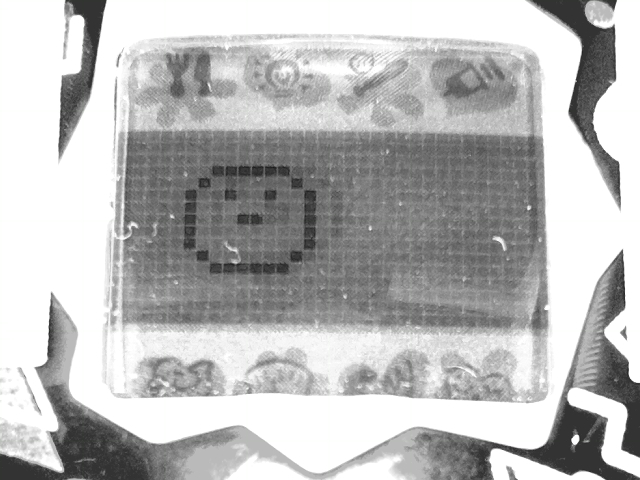
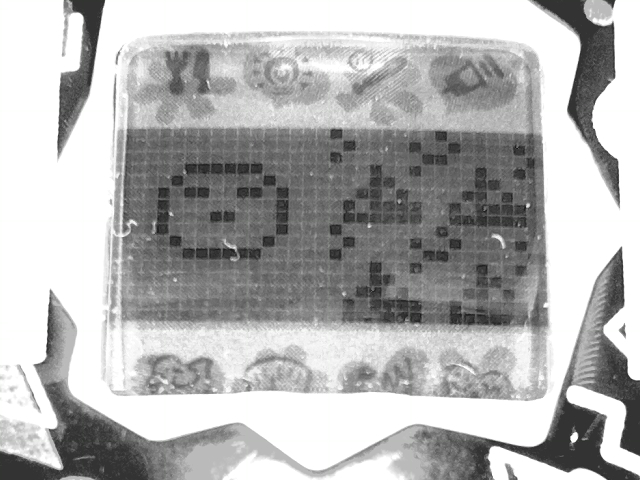
GUI now works without flashing, added file locking, added log file showing, thread for main loop and more

diff --git a/gui.py b/gui.py
@@ -1,6 +1,8 @@
 import os
 from tkinter import *
 from PIL import ImageTk,Image
+from time import sleep
+import fasteners
 
 def checkSetDisplay():
     # check if display env variable is ok
@@ -56,42 +58,54 @@ class TamaGui():
         bLoveMode.place(x=10,y=530)
         bManualMode = Button(self.gui, text ="MURDER", command = self.setMurderMode, font = fontBig)
         bManualMode.place(x=200,y=530)
-        
-    def update(self):
-        imVision = Image.open('vision.png')
-        w, h = imVision.size
-        imVision = imVision.resize((int(w), int(h)))
-        imVision = ImageTk.PhotoImage(imVision)
-        label1 = Label(image=imVision)
-        label1.place(x=500, y=20)
-                
-        imStats = Image.open('weight_age.jpg')
-        w, h = imStats.size
-        imStats = imStats.resize((int(w/3), int(h/3)))
-        imStats = ImageTk.PhotoImage(imStats)
-        label1 = Label(image=imStats)
-        label1.place(x=800, y=20)
 
-        imHungry = Image.open('hunger.jpg')
-        w, h = imHungry.size
-        imHungry = imHungry.resize((int(w/3), int(h/3)))
-        imHungry = ImageTk.PhotoImage(imHungry)
-        label1 = Label(image=imHungry)
-        label1.place(x=800, y=200)
+        lVision = Label()
+        lVision.place(x=500, y=20)
+        lStats = Label()
+        lStats.place(x=800, y=20)
+        lHungry = Label()
+        lHungry.place(x=800, y=200)
+        lHappy = Label()
+        lHappy.place(x=800, y=380)
+        lDiscipline = Label()
+        lDiscipline.place(x=800, y=560)
 
-        imHappy = Image.open('happiness.jpg')
-        w, h = imHappy.size
-        imHappy = imHappy.resize((int(w/3), int(h/3)))
-        imHappy = ImageTk.PhotoImage(imHappy)
-        label1 = Label(image=imHappy)
-        label1.place(x=800, y=380)
+        self.text_widget = Text(self.gui, wrap="word", width=41, height=4, font = fontSmall)
+        self.text_widget.place(x=10, y=610)
 
-        imDiscipline = Image.open('discipline.jpg')
-        w, h = imDiscipline.size
-        imDiscipline = imDiscipline.resize((int(w/3), int(h/3)))
-        imDiscipline = ImageTk.PhotoImage(imDiscipline)
-        label1 = Label(image=imDiscipline)
-        label1.place(x=800, y=560)
+        # format: label object, filename, scale x, scale y
+        self.images = ((lVision, 'vision.png', 1, 1), 
+                       (lStats, 'weight_age.jpg', 0.33, 0.33),
+                       (lHungry, 'hunger.jpg', 0.33, 0.33),
+                       (lHappy, 'happiness.jpg', 0.33, 0.33),
+                       (lDiscipline, 'discipline.jpg', 0.33, 0.33),
+        )
 
+    def updateContent(self):
+        # update images
+        for image in self.images:
+            fn = image[1]
+            lock = fasteners.InterProcessLock(fn)
+            with lock:
+                im = Image.open(fn)
+            w, h = im.size
+            im = im.resize((int(w*image[2]), int(h*image[3])))
+            im = ImageTk.PhotoImage(im)
+            image[0].configure(image = im)
+            image[0].image = im # keep a reference!
 
-        self.gui.update()
+        # update text
+        file_path='log.txt'
+        lock = fasteners.InterProcessLock(file_path)
+        with lock:            
+            with open(file_path, 'r') as file:
+                content = file.readlines()
+                content = content[-4:] 
+                self.text_widget.delete(1.0, END)  # Clear previous content
+                self.text_widget.insert(END, "".join(content))
+
+        self.gui.after(1000, self.updateContent)
+
+    def mainloop(self):
+        self.updateContent()
+        self.gui.mainloop()

diff --git a/vision.py b/vision.py
@@ -15,15 +15,15 @@ from skimage.io import imread
 import os
 
 import shutil
-
 import math
+import fasteners
 
 class TamaVision(object):
     positiveThreshold = 0.40 # value above this means we've found the pattern
+    showResult = False
     def __init__(self):
-        self.thresOffset = 0.04 # higher means more black pixels
-        
-
+        self.thresOffset = 0.04 # higher means more black pixels. Normally +0.04 is ok
+    
     # 12.6x scale value found through calibration, first step measure pixels, then trial and error test for best match
     def rescaleSprites(self, spritesFolder, rescaledFolder, scaleFactor):
         for filename in os.listdir(spritesFolder):
@@ -56,7 +56,7 @@ class TamaVision(object):
 
             if patName not in ['needs_discipline.png']:
                 # crop image
-                image = image[134:341, 99:547]
+                image = image[110:341, 95:570]
 
                 # threshold image using yen algorithm, this is best (determined through try_all_threshold function from skimage)
                 thresh = threshold_yen(image)
@@ -132,7 +132,9 @@ class TamaVision(object):
             plt.gca().yaxis.set_major_locator(plt.NullLocator())
 
             fn = 'vision.png'
-            plt.savefig(fn, bbox_inches = 'tight', pad_inches = 0)
+            lock = fasteners.InterProcessLock(fn)
+            with lock:
+                plt.savefig(fn, bbox_inches = 'tight', pad_inches = 0)
 
             if len(positiveThresholds) > 1:
                 thres = positiveThresholds[idx]
@@ -140,33 +142,14 @@ class TamaVision(object):
                 thres = positiveThresholds[0]
 
             if likeliness > thres:
-                plt.pause(10)
-                shutil.copy(fn, 'visionLog/Found/' + date_time + patName)
-                #plt.savefig('visionLog/Found/' + date_time + patName, bbox_inches = 'tight')
-                plt.close()
+                if self.showResult:
+                    plt.pause(10)
+                    plt.close()
+                shutil.copy(fn, 'visionLog/Found/' + date_time + patName)   
                 return True
             else:
                 shutil.copy(fn, 'visionLog/NotFound/' + date_time + patName)
-                plt.close()
-                #plt.savefig('visionLog/NotFound/' + date_time + patName, bbox_inches = 'tight')
-        return False
-            
-        
-        
-
-def testTamaVision():    
-    os.environ.__setitem__('DISPLAY', ':0.0') 
-    tamaVision = TamaVision()
-    tamaVision.findPattern('frame.jpg', 'child.png')
-
-
-'''
-# rescale all, manually do this once if you change cam position, manually clear the folder first
-import vision
-vis = vision.TamaVision()
-vis.rescaleSprites('sprites', 'spritesRescaled', 12.6)
-'''
-#print("Running vision script!")
-#testTamaVision()
-    
+                if self.showResult:
+                    plt.close()
+        return False   
 

diff --git a/controller.py b/controller.py
@@ -1,6 +1,7 @@
 from transitions import Machine
 from time import sleep
 import time
+import fasteners
 
 class TamaCareState(object):
   careStates = ['idle', 'sleeping', 'sick', 'poopy',
@@ -64,19 +65,13 @@ class TamaController(object):
   def updateTamaStatFrames(self):
     self.tamaButtons.pressL_nTimes(6)
     self.tamaButtons.pressM()
-    self.getFrame('weight_age.jpg')
-    self.tamaButtons.pressL()
-    self.getFrame('discipline.jpg')
-    self.tamaButtons.pressL()    
-    self.getFrame('hunger.jpg')
-    self.tamaButtons.pressL()
-    self.getFrame('happiness.jpg')
-    self.tamaButtons.pressR()
-    
 
-    unhappy = False
-    hungry = False
-    return unhappy, hungry
+    fileNames = ('weight_age.jpg', 'discipline.jpg', 'hunger.jpg', 'happiness.jpg')
+    for fn in fileNames:
+      lock = fasteners.InterProcessLock(fn)
+      with lock:
+          self.getFrame(fn)
+      self.tamaButtons.pressL()
 
   def checkNeedsDiscipline(self):
     needsDiscipline = False

diff --git a/main.py b/main.py
@@ -7,6 +7,8 @@ import log
 import os
 import light
 from time import sleep
+import threading
+
 
 # This line is essential, do not remove. This makes sure you can display to the 3.5 inch display
 os.environ.__setitem__('DISPLAY', ':0.0') 
@@ -23,9 +25,15 @@ tamaLog = log.TamaLog()
 tamaLight = light.TamaLight(14)
 tamaController = controller.TamaController(tamaCam, tamaVision, tamaButtons, tamaLog, tamaLight)
 
+def threadedMainLogic():
+    while True:
+        if tamaGui.autoMode:
+            tamaController.getAndHandleState(tamaGui.loveMode)
+
 tamaCam.preview()  
-while(True):            
-    tamaGui.update()
-    if tamaGui.autoMode:
-        tamaController.getAndHandleState(tamaGui.loveMode)
+while(True):
+    t = threading.Thread(target=threadedMainLogic)
+    t.start()
+    tamaGui.mainloop()
+    
     

diff --git a/vision_experiments.py b/vision_experiments.py
@@ -22,11 +22,15 @@ from skimage.filters import try_all_threshold
 os.environ.__setitem__('DISPLAY', ':0.0') 
 
 
-th = image > 0.6
+
 
 imageFileName = 'frame.jpg'
 image = ski.io.imread(imageFileName, as_gray=True)
-image = image[134:341, 99:547]
+image = image[110:341, 95:570]
+fig, ax = try_all_threshold(image, figsize=(10, 8), verbose=False)
+plt.show()
+
+th = image > 0.6
 
 thresh = threshold_yen(image)
 binary = image > thresh
@@ -40,8 +44,7 @@ ax1.imshow(binary, cmap=plt.cm.gray)
 plt.pause(5)
 plt.close()
 
-#fig, ax = try_all_threshold(image, figsize=(10, 8), verbose=False)
-#plt.show()
+
 
 import numpy as np
 from scipy import ndimage as ndi

diff --git a/testVision.py b/testVision.py
@@ -1,0 +1,17 @@
+import vision
+import os
+
+print("Running vision script!")
+os.environ.__setitem__('DISPLAY', ':0.0') 
+tamaVision = vision.TamaVision()
+tamaVision.findPattern('frame.jpg', 'child.png')
+
+
+
+
+'''
+# rescale all, manually do this once if you change cam position, manually clear the folder first
+import vision
+vis = vision.TamaVision()
+vis.rescaleSprites('sprites', 'spritesRescaled', 12.6)
+'''
